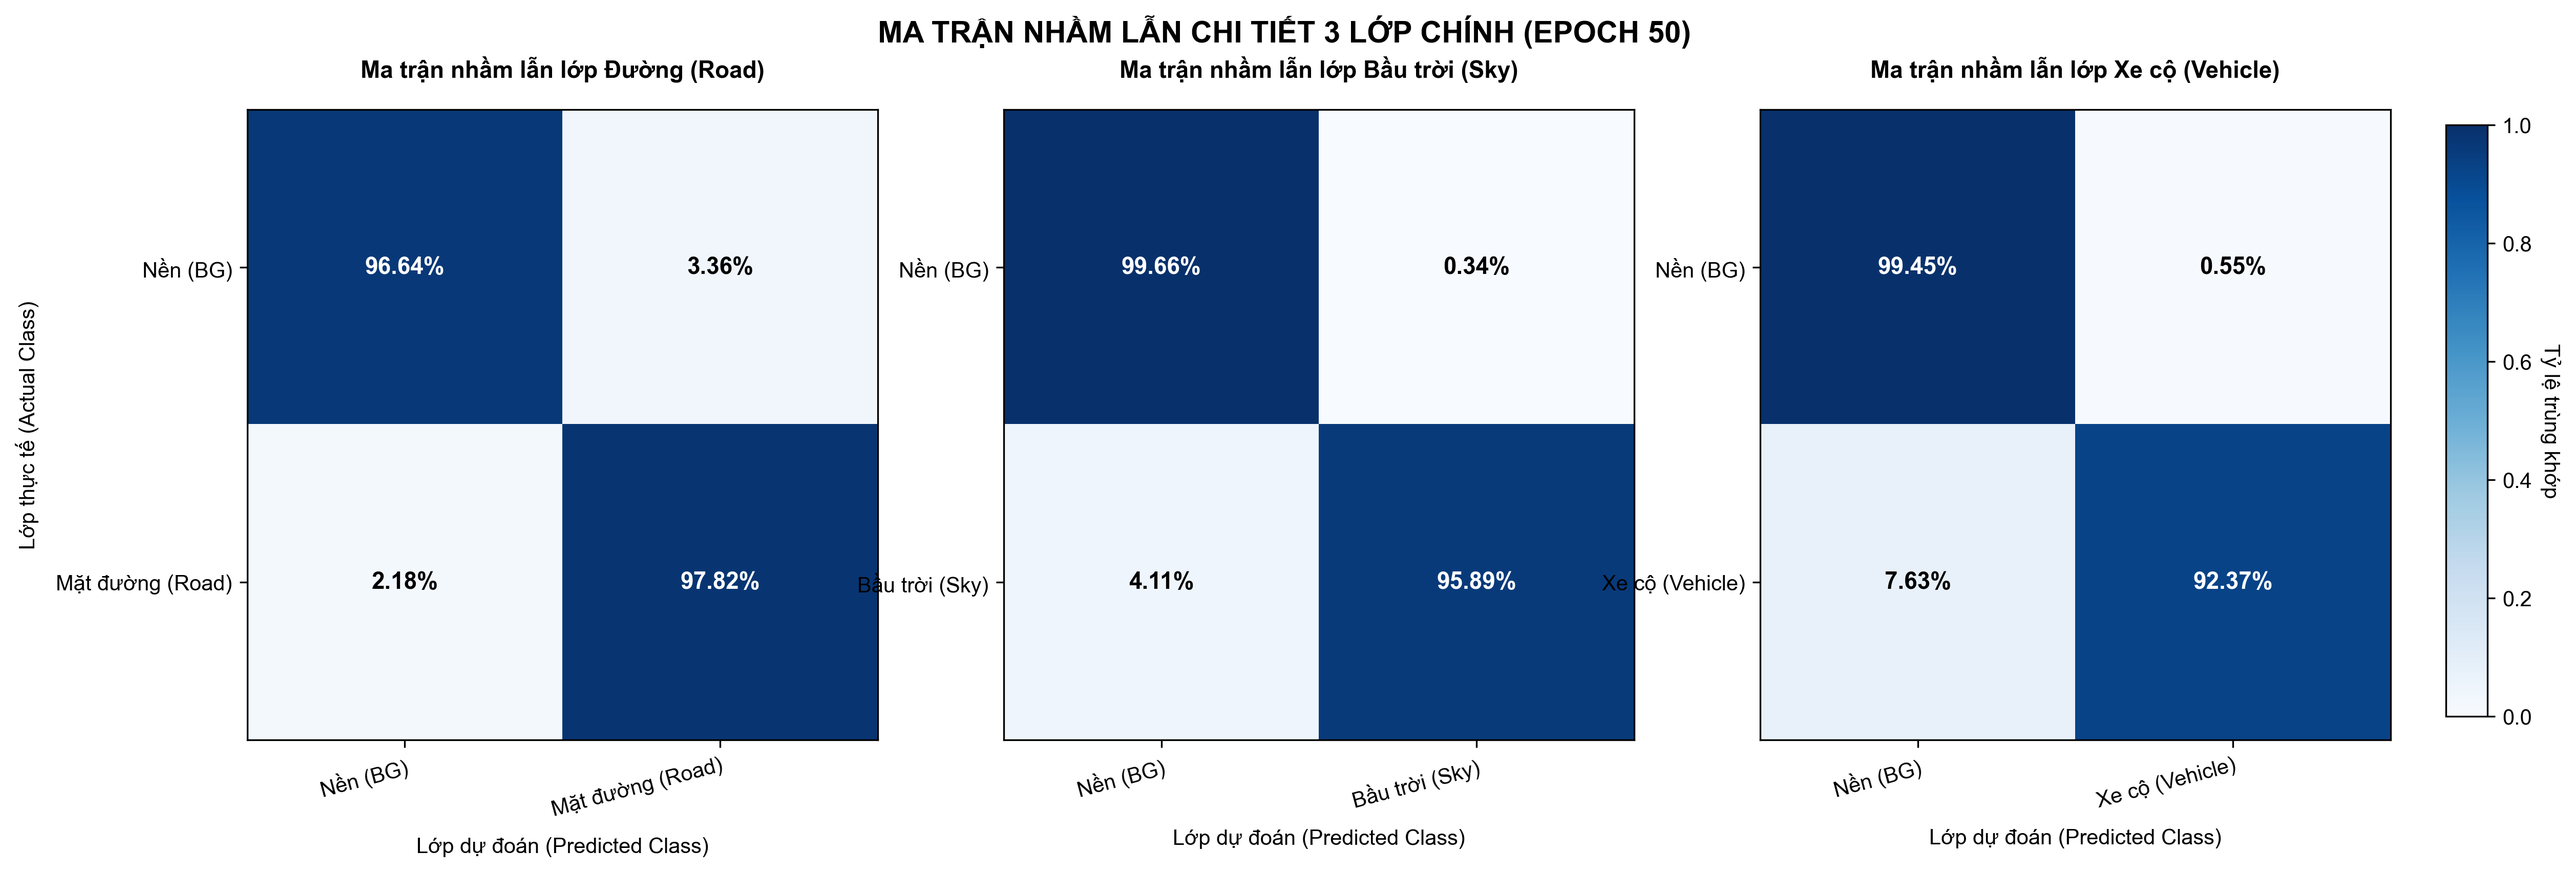
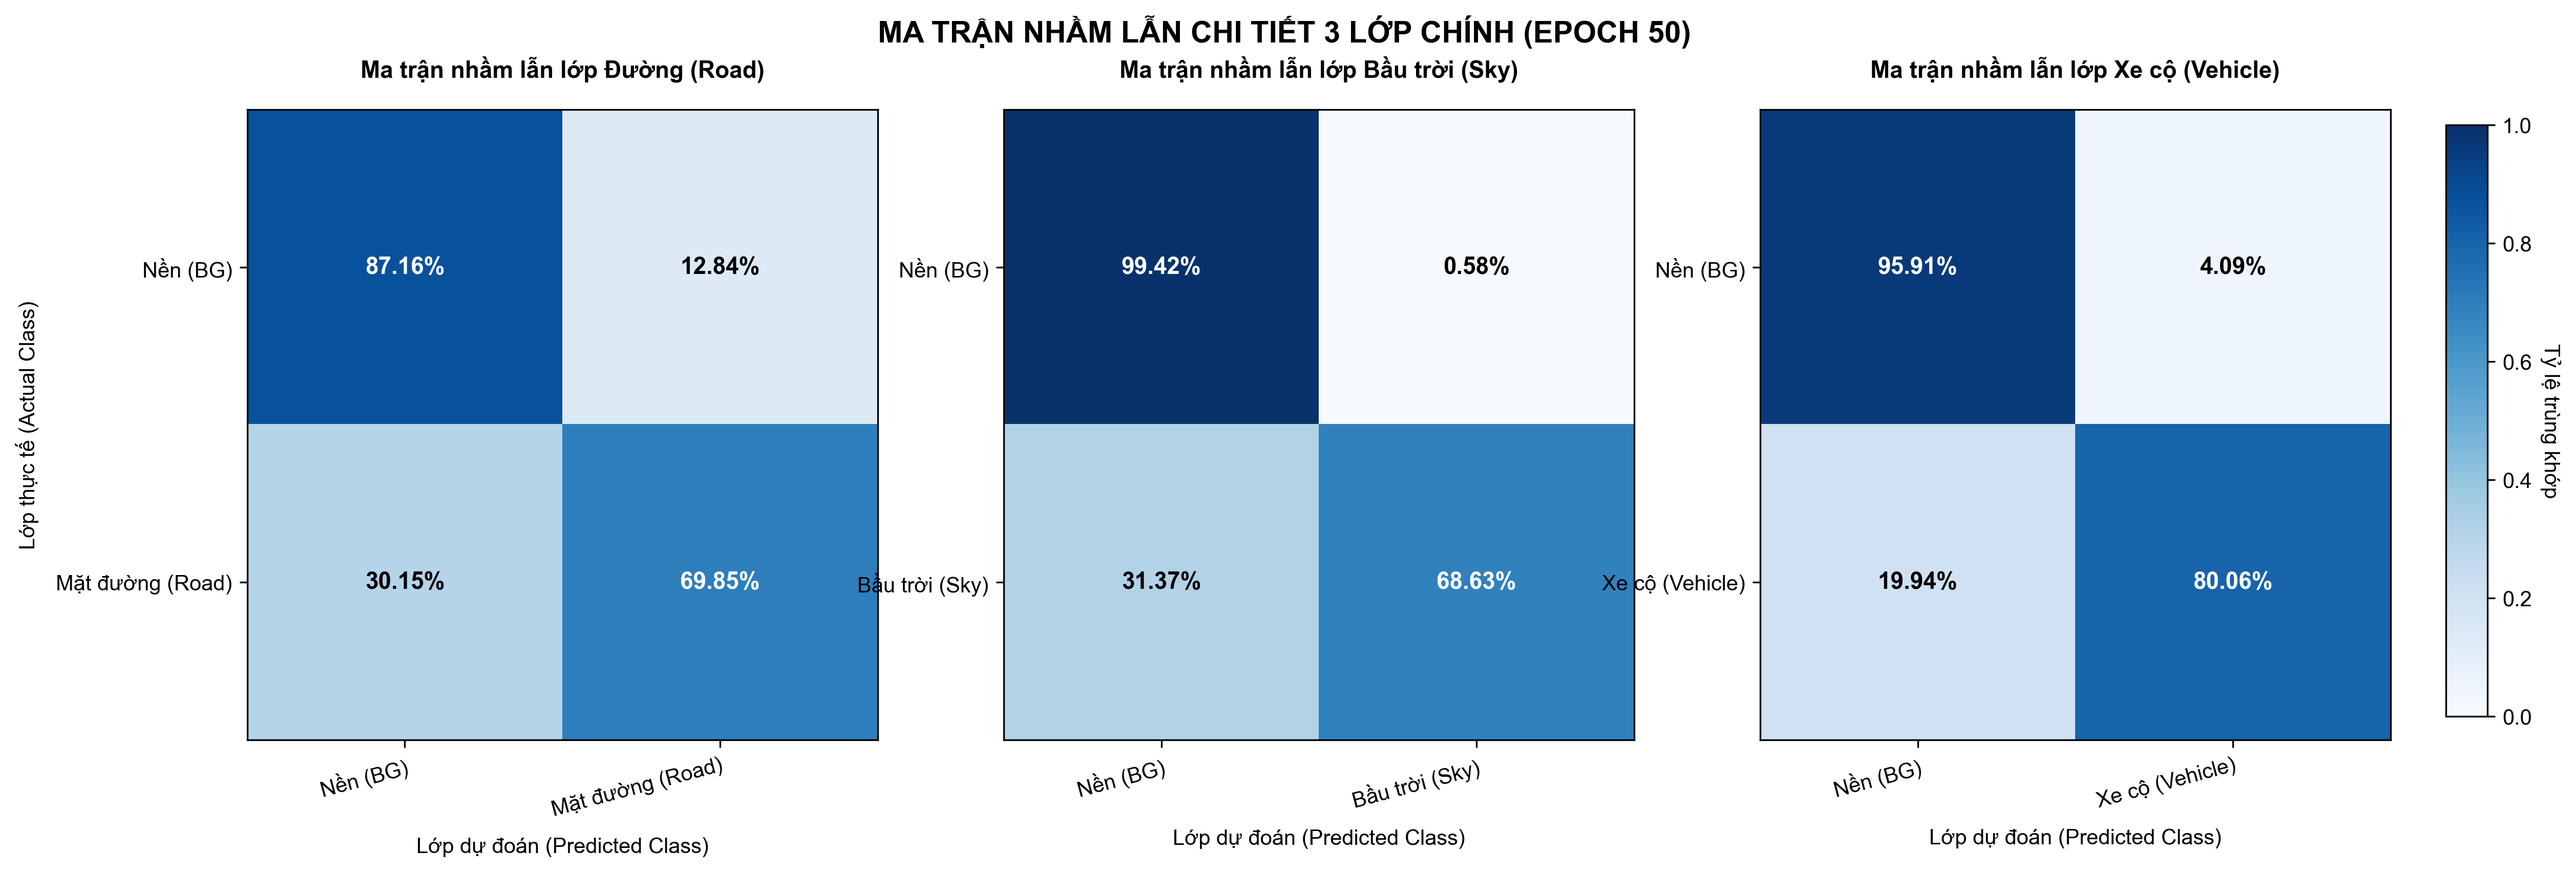
Update generate_heatmap.py values and regenerate confusion_matrix_heatmap.png with actual 8-class validation metrics

diff --git a/generate_heatmap.py b/generate_heatmap.py
@@ -18,20 +18,20 @@ classes = ['Nền (Background)', 'Đối tượng (Object)']
 
 # 1. Lớp Đường (flat)
 cm_road = np.array([
-    [0.9664, 0.0336],  # Actual Background -> Predicted Neg, Pos
-    [0.0218, 0.9782]   # Actual Road -> Predicted Neg, Pos
+    [0.8716, 0.1284],  # Actual Background -> Predicted Neg, Pos
+    [0.3015, 0.6985]   # Actual Road -> Predicted Neg, Pos
 ])
 
 # 2. Lớp Bầu trời (sky)
 cm_sky = np.array([
-    [0.9966, 0.0034],  # Actual Background -> Predicted Neg, Pos
-    [0.0411, 0.9589]   # Actual Sky -> Predicted Neg, Pos
+    [0.9942, 0.0058],  # Actual Background -> Predicted Neg, Pos
+    [0.3137, 0.6863]   # Actual Sky -> Predicted Neg, Pos
 ])
 
 # 3. Lớp Xe cộ (vehicle)
 cm_vehicle = np.array([
-    [0.9945, 0.0055],  # Actual Background -> Predicted Neg, Pos
-    [0.0763, 0.9237]   # Actual Vehicle -> Predicted Neg, Pos
+    [0.9591, 0.0409],  # Actual Background -> Predicted Neg, Pos
+    [0.1994, 0.8006]   # Actual Vehicle -> Predicted Neg, Pos
 ])
 
 cms = [cm_road, cm_sky, cm_vehicle]
